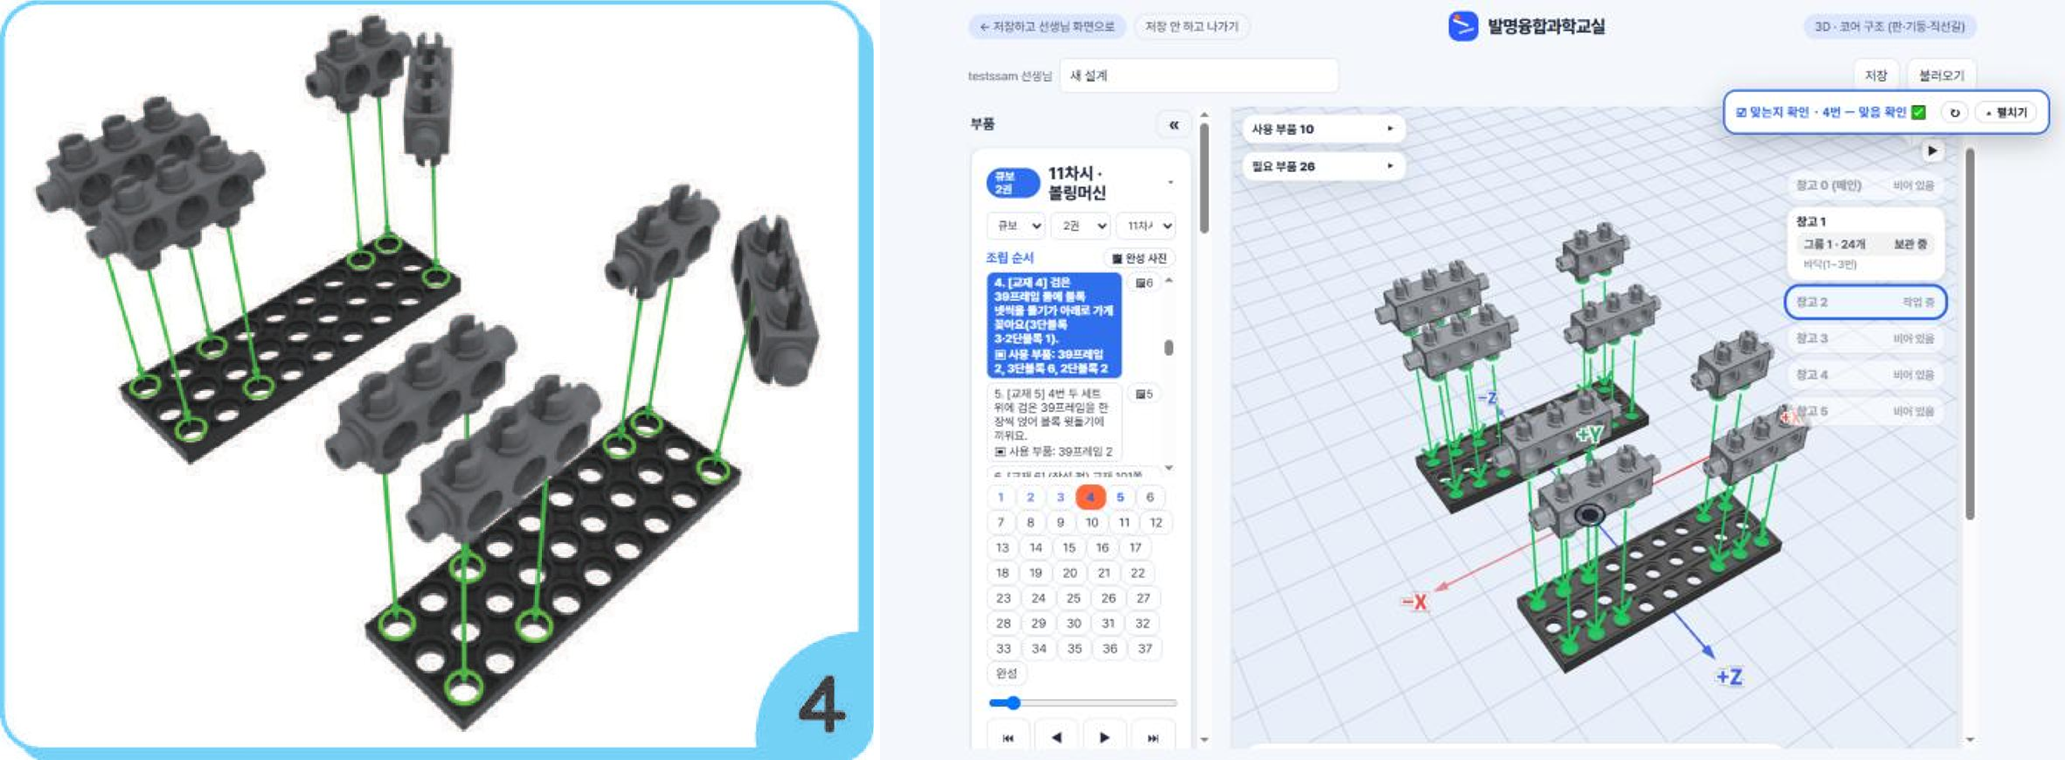
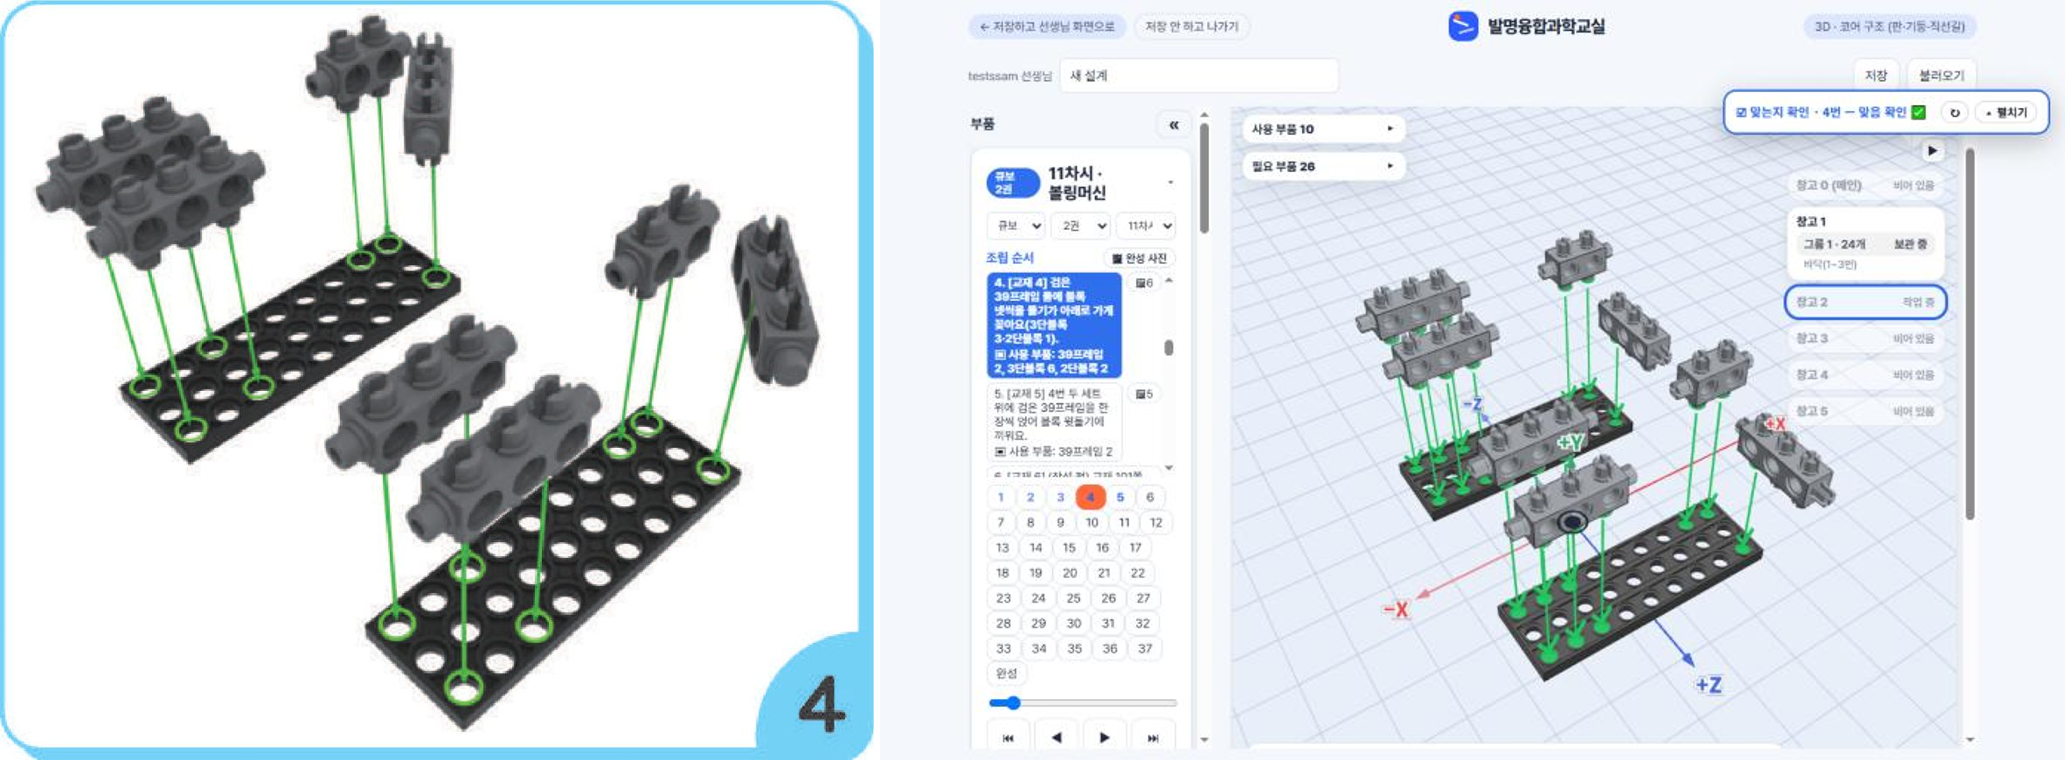
볼링머신 4번 판 끝 3단블록 방향만 90° 수정

Changed region(s): [[0.6508, 0.3026, 0.8988, 0.9079]]

diff --git a/scripts/assembly-tools/bowling.py b/scripts/assembly-tools/bowling.py
@@ -128,6 +128,7 @@ s4.kw["hideMade"] = {str(_n): "바닥(1~3번)" for _n in (1, 2, 3)}
 R_3B_COL = np.array([[1.0, 0.0, 0.0], [0.0, 0.0, -1.0], [0.0, 1.0, 0.0]])   # 3단블록: 긴 쪽 → +X(칸 방향; p5=칸1·p4=칸2·p3=칸3), 돌기 면이 아래(−Y)
 R_2B_COL = np.array([[1.0, 0.0, 0.0], [0.0, 0.0, -1.0], [0.0, 1.0, 0.0]])    # 2단블록: 긴 쪽 → +X(칸 방향), 돌기 면이 아래
 R_3B_ROW = np.array([[0.0, -1.0, 0.0], [0.0, 0.0, -1.0], [1.0, 0.0, 0.0]])   # 3단블록: 긴 쪽 → +Z(줄 방향), 돌기 면이 아래(−Y)
+R_3B_ROW = np.array([[0.0, -1.0, 0.0], [0.0, 0.0, -1.0], [1.0, 0.0, 0.0]])   # 3단블록: 긴 쪽 +Z, 돌기 면 아래
 PT4, BL4 = [], []
 for _zc in (-40.0, 40.0):
     _pl = s4.place("39프레임", np.eye(3), (0.0, 2.5, _zc)); PT4.append(_pl)
@@ -135,7 +136,7 @@ for _zc in (-40.0, 40.0):
     for _row, _hv in ((1, 66), (3, 60)):   # 책 4번 그림에서 돌기 줄이 칸 방향(오른쪽 위)으로 늘어서 있다 — 칸 방향으로 누운 3단블록 둘(줄1·줄3)
         _b.append(s4.attach("3단블록", R_3B_COL, {"p5": (_pl, "h1_%d" % _row), "p4": (_pl, "h2_%d" % _row), "p3": (_pl, "h3_%d" % _row)}, dir=[0, 1, 0], hover=_hv))
     _b.append(s4.attach("2단블록", R_2B_COL, {"p3": (_pl, "h8_1"), "p4": (_pl, "h9_1")}, dir=[0, 1, 0], hover=62))
-    _b.append(s4.attach("3단블록", R_3B_COL, {"p5": (_pl, "h9_3")}, dir=[0, 1, 0], hover=46))   # 칸 방향으로 누운 3단블록: 돌기 p5 만 칸9 줄3, p4·p3 은 판 끝 밖(사용자 지시 2026-10-25: 2단 → 3단, 결합 방향 수정)   
+    _b.append(s4.attach("3단블록", R_3B_ROW, {"p5": (_pl, "h9_3")}, dir=[0, 1, 0], hover=46))   # 판 끝 블록: 꽂는 구멍(칸9 줄3)은 그대로, 블록 방향만 90° 돌림(사용자 지시)   # 칸 방향으로 누운 3단블록: 돌기 p5 만 칸9 줄3, p4·p3 은 판 끝 밖(사용자 지시 2026-10-25: 2단 → 3단, 결합 방향 수정)   
     BL4.append(_b)
 A.steps[3].cam = (-0.58, 0.83, False, None, None, None); A.steps[3].camSrc = "eye"   # holefit 위 판 9×3 → axes_fit 오차 0.76px(27점, roll −0.9°)
 
